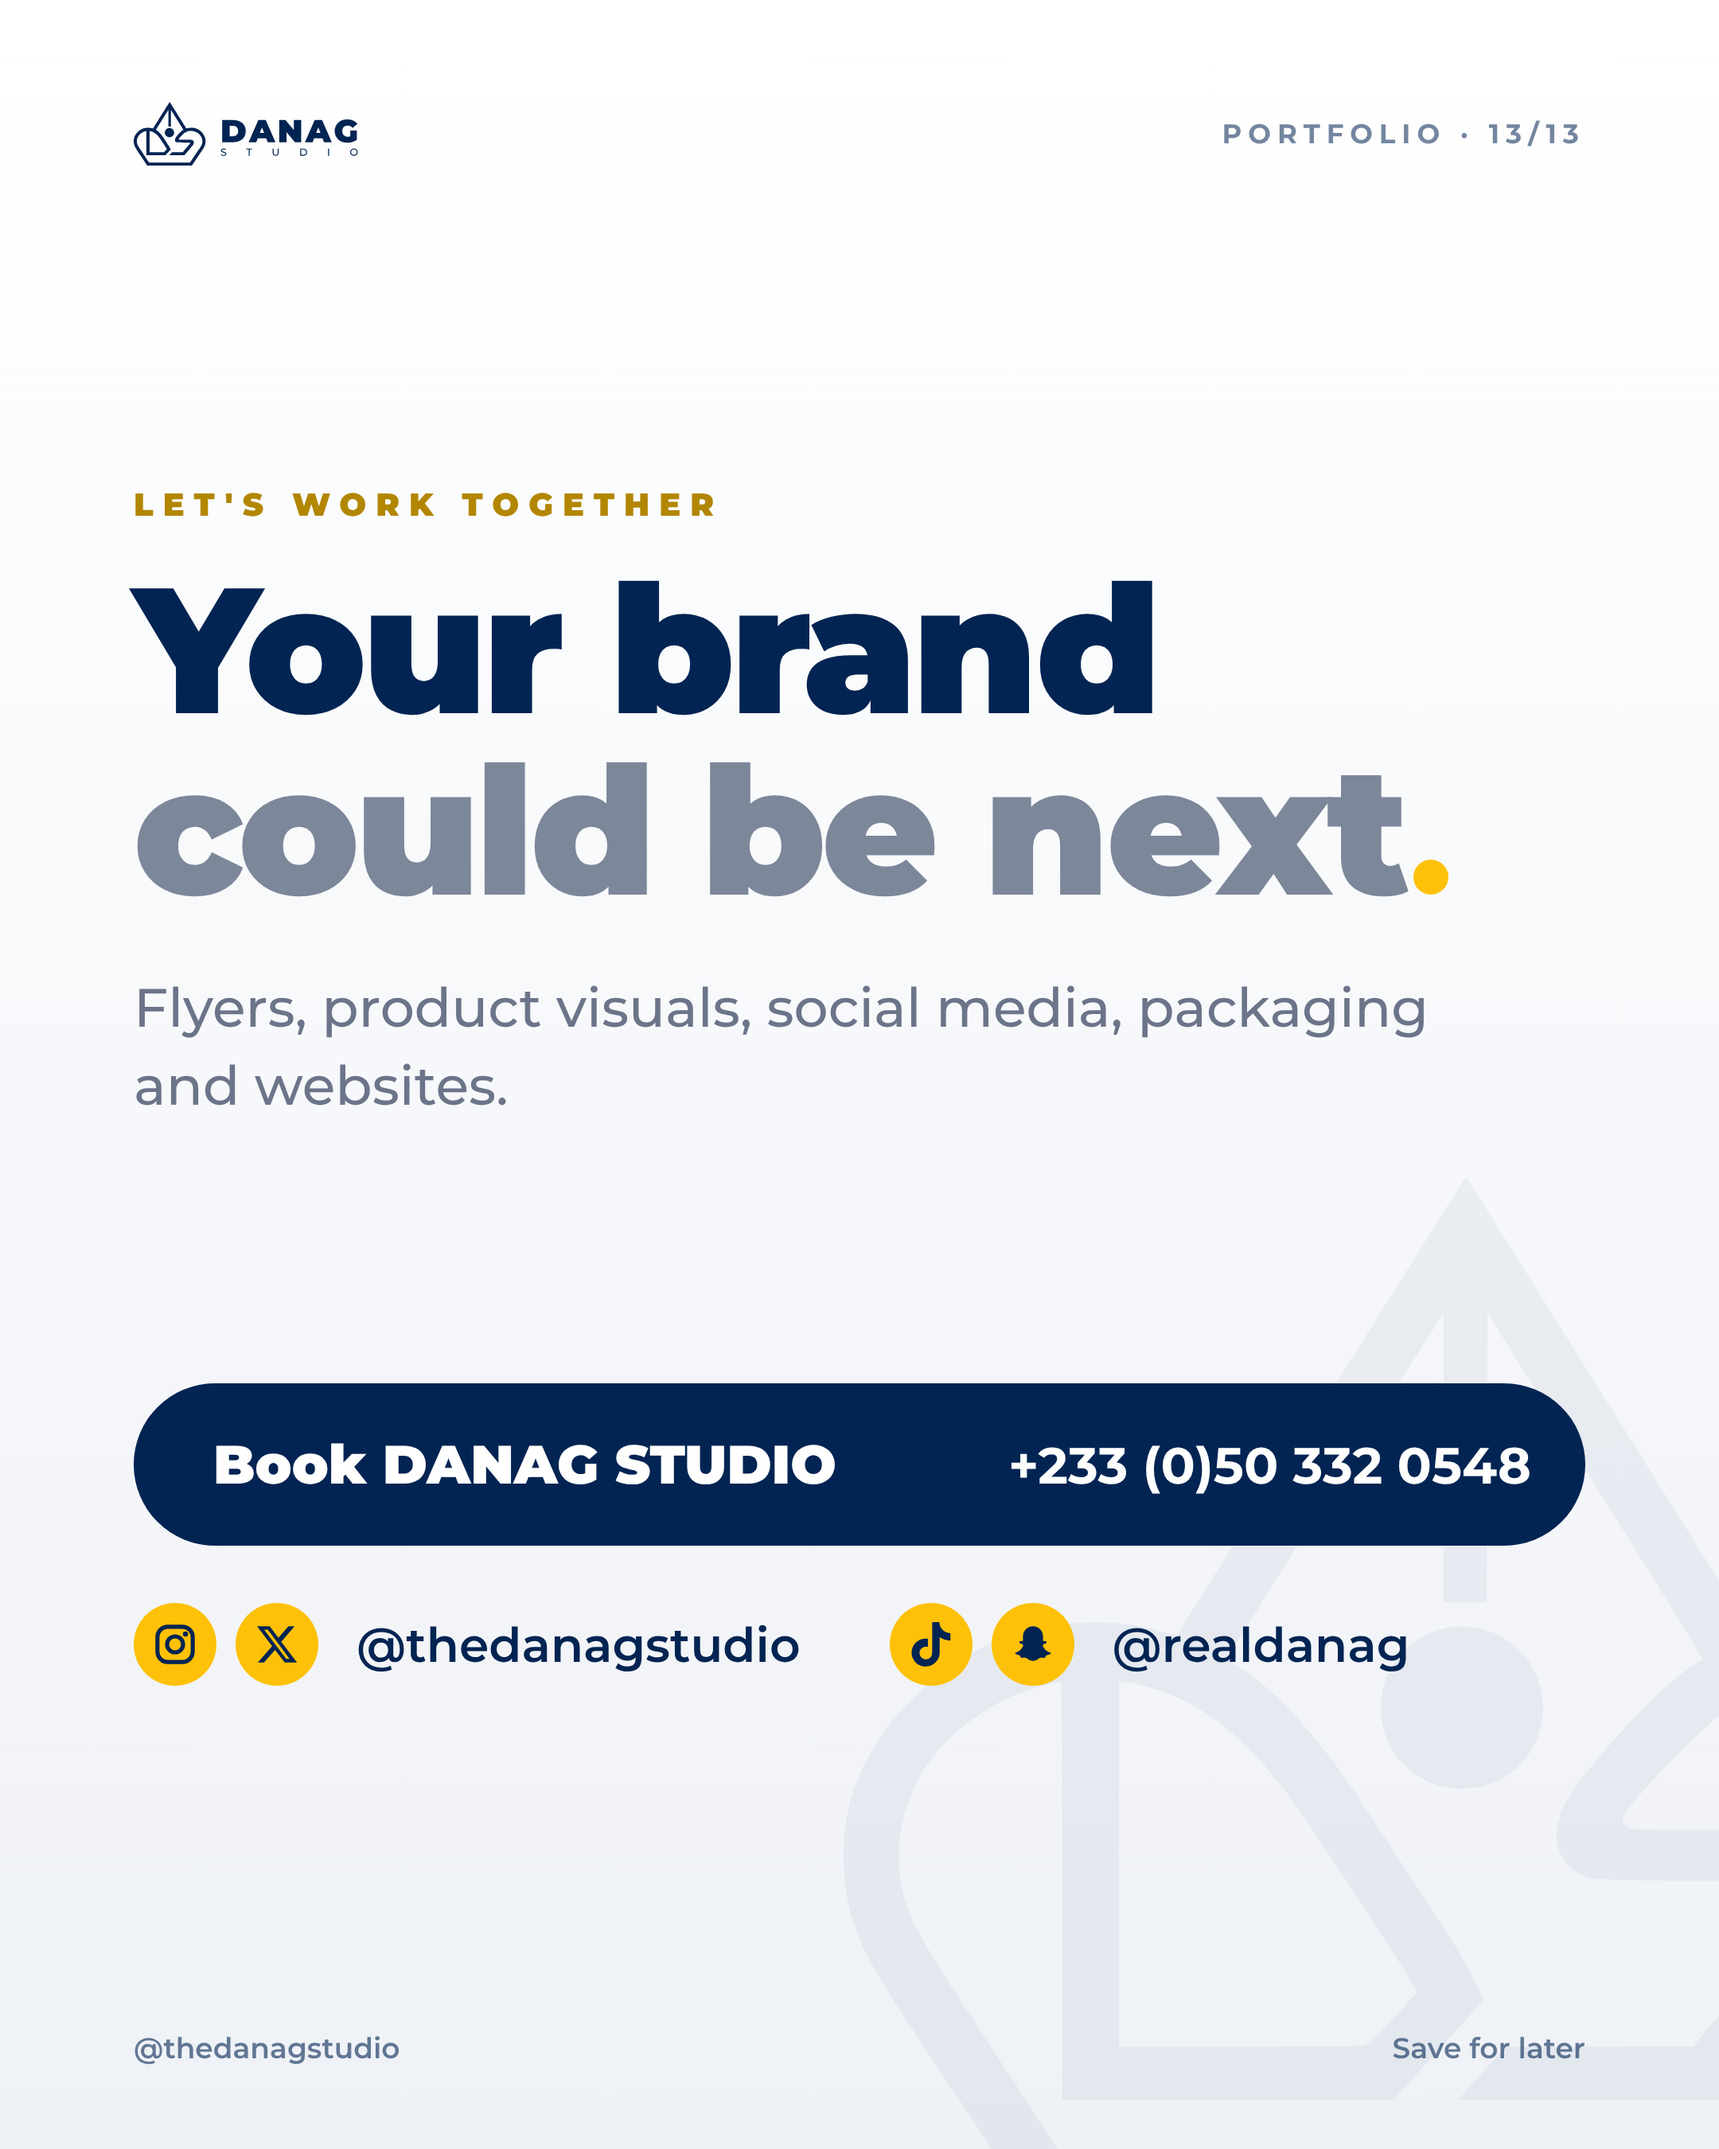
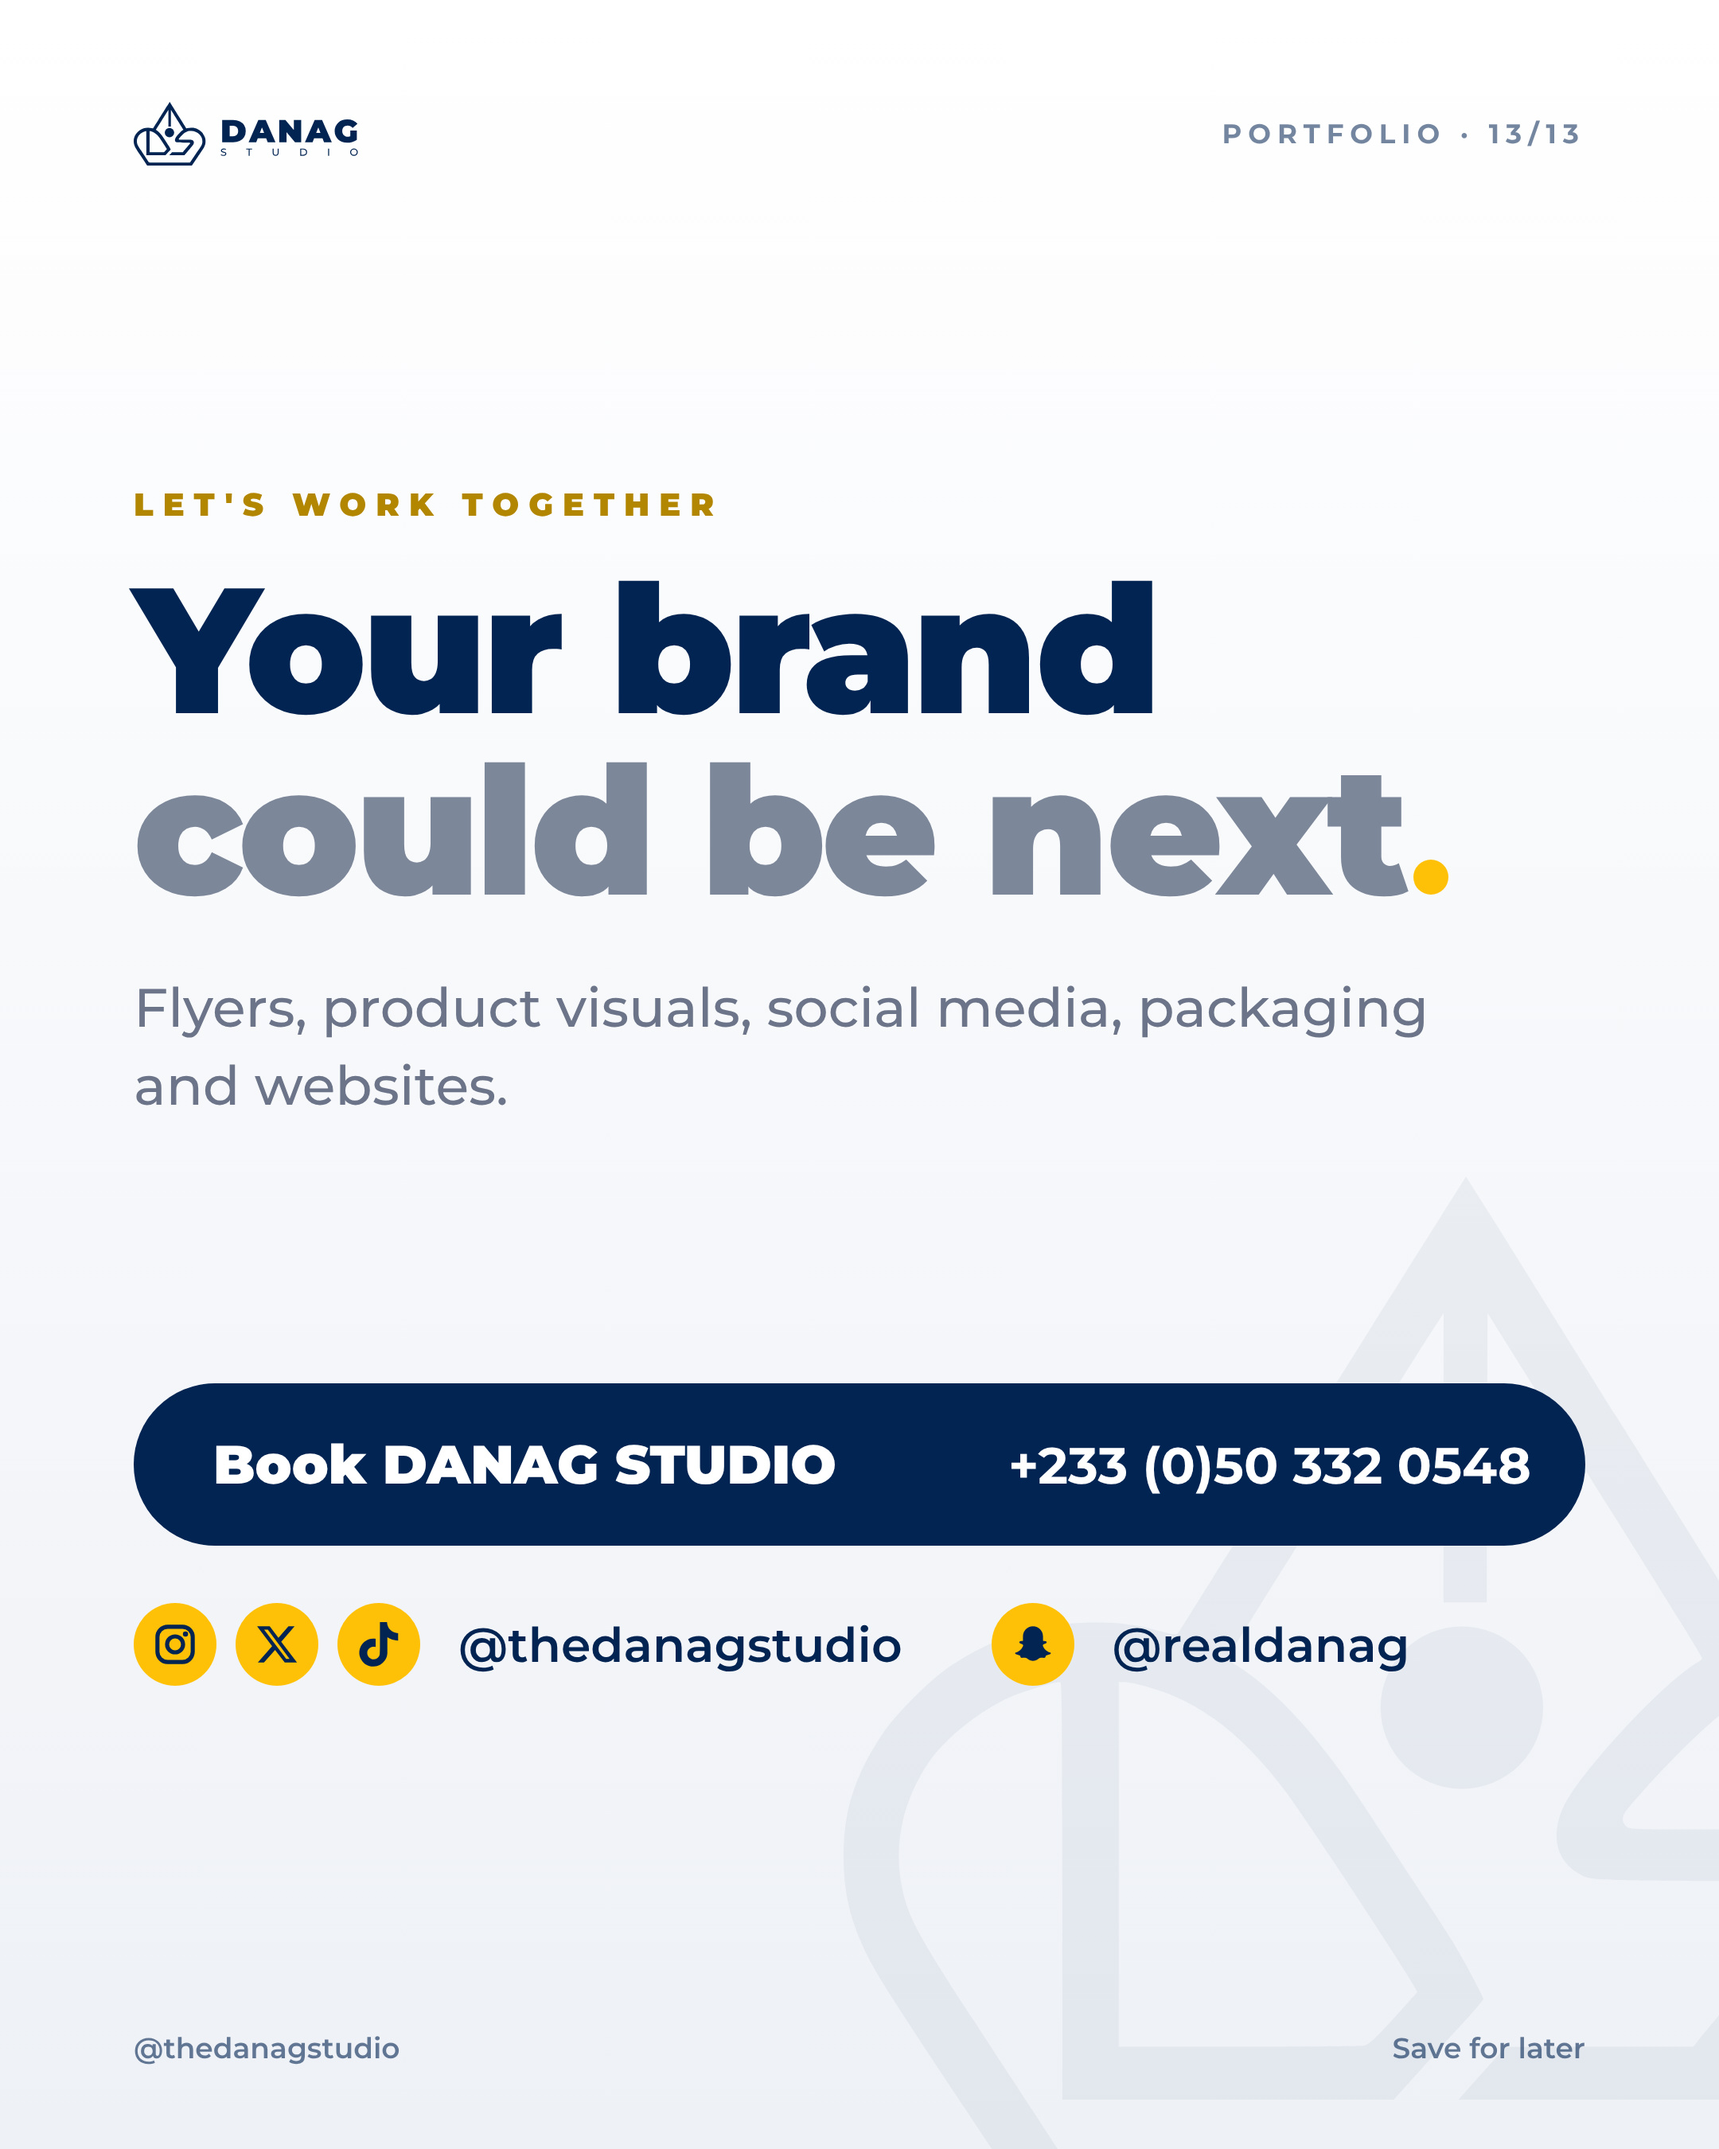
CTA: TikTok on @thedanagstudio, Snapchat on @realdanag
Claude-Session: https://claude.ai/code/session_016a1VN4ugzb4H8TCZTdtQAj

Changed region(s): [[0.1861, 0.7467, 0.5894, 0.8089]]

diff --git a/portfolio/src/render_portfolio.py b/portfolio/src/render_portfolio.py
@@ -77,8 +77,8 @@ def cta(d):
 <div><div style="display:flex;align-items:center;justify-content:space-between;background:{"#FFC107" if d else "#022452"};border-radius:70px;padding:30px 34px 30px 50px;color:{"#022452" if d else "#fff"}">
 <span style="font-weight:900;font-size:34px">Book DANAG STUDIO</span><span style="font-weight:700;font-size:32px">+233 (0)50 332 0548</span></div>
 <div style="margin-top:36px;display:flex;gap:56px;font-weight:600;font-size:30px">
-<div style="display:flex;align-items:center;gap:12px">{ic("IG")}{ic("X")}<span style="margin-left:12px">@thedanagstudio</span></div>
-<div style="display:flex;align-items:center;gap:12px">{ic("TT")}{ic("SC")}<span style="margin-left:12px">@realdanag</span></div></div></div></div>'''
+<div style="display:flex;align-items:center;gap:12px">{ic("IG")}{ic("X")}{ic("TT")}<span style="margin-left:12px">@thedanagstudio</span></div>
+<div style="display:flex;align-items:center;gap:12px">{ic("SC")}<span style="margin-left:12px">@realdanag</span></div></div></div></div>'''
 SL = [
  lambda d: text('SELECTED WORK · 2025–2026', 'Work that', 'wears the crown', 'A few favourite projects from DANAG STUDIO, from luxury fragrance and fashion to flyers, packaging and websites.')
            + hero('my-083', 'tf-gmg-red', 'ss-178'),
